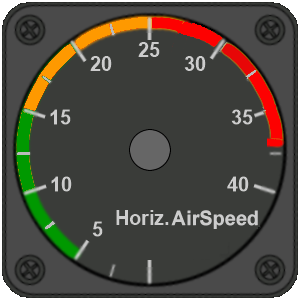
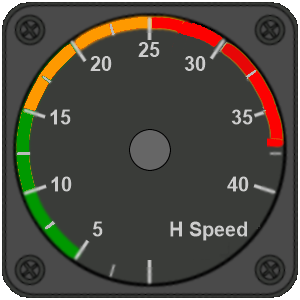
Updated graphics,splash option
Updated graphics.  Added splash option

Changed region(s): [[0.36, 0.69, 0.87, 0.81]]

diff --git a/src/main.py b/src/main.py
@@ -113,7 +113,6 @@ class MainApp(MDApp):
     appTitle = f"{appName} - {appVersion}"
     defaultMapZoom = 3
     pathWidths = [ "1.0", "1.5", "2.0", "2.5", "3.0" ]
-    refreshRates = ['0.25s', '0.50s', '1.00s', '1.50s', '2.00s']
     assetColors = [ "#ed1c24", "#0000ff", "#22b14c", "#7f7f7f", "#ffffff", "#c3c3c3", "#000000", "#ffff00", "#a349a4", "#aad2fa" ]
     columns = ('recnum', 'recid', 'flight','timestamp','tod','time','distance1','dist1lat','dist1lon','distance2','dist2lat','dist2lon','distance3','altitude1','altitude2','speed1','speed1lat','speed1lon','speed2','speed2lat','speed2lon','speed1vert','speed2vert','satellites','ctrllat','ctrllon','homelat','homelon','dronelat','dronelon','orientation','motor1status','motor2status','motor3status','motor4status','motorstatus','dronestatus','droneaction','rssi','channel','flightctrlconnected','remoteconnected','droneconnected','rth','positionmode','gps','inuse','traveled','batterylevel','flightmode','flightcounter')
     showColsBasicDreamer = ('flight','tod','time','altitude1','distance1','satellites','homelat','homelon','dronelat','dronelon')
@@ -1036,7 +1035,7 @@ class MainApp(MDApp):
 
         dronestatus2 = rthDesc if rthDesc == "RTH" else dronestatus
         if self.is_desktop:
-            self.root.ids.map_metrics2.text = f" {_('map_time')} {'{:>6}'.format(str(elapsed))[-5:]} | {_('map_dist')} {'{:>7}'.format(record[self.columns.index('distance3')])} {self.dist_unit()} | {_('map_alt')} {'{:>6}'.format(record[self.columns.index('altitude2')])} {self.dist_unit()} | {_('map_hs')} {'{:>5}'.format(record[self.columns.index('speed2')])} {self.speed_unit()} | {_('map_vs')} {'{:>5}'.format(record[self.columns.index('speed2vert')])} {self.speed_unit()} | {_('map_flightmode')} {flightMode} | {_('map_battery')} {'{:>2}'.format(record[self.columns.index('batterylevel')])}% | {dronestatus2} | {droneConnected} | {positionMode} | {_('map_sats')} {'{:>2}'.format(record[self.columns.index('satellites')])} | {_('map_distance_flown')} {self.shorten_dist_val(record[self.columns.index('traveled')])} {self.dist_unit_km()}"
+            self.root.ids.map_metrics2.text = f" {_('map_time')} {'{:>6}'.format(str(elapsed))[-5:]} | {_('map_dist')} {'{:>7}'.format(record[self.columns.index('distance3')])} {self.dist_unit()} | {_('map_alt')} {'{:>6}'.format(record[self.columns.index('altitude2')])} {self.dist_unit()} | {_('map_hs')} {'{:>5}'.format(record[self.columns.index('speed2')])} {self.speed_unit()} | {_('map_vs')} {'{:>5}'.format(record[self.columns.index('speed2vert')])} {self.speed_unit()} | {_('map_flightmode')} {flightMode} | {_('map_battery_level')} {'{:>2}'.format(record[self.columns.index('batterylevel')])}% | {dronestatus2} | {droneConnected} | {positionMode} | {_('map_sats')} {'{:>2}'.format(record[self.columns.index('satellites')])} | {_('map_distance_flown')} {self.shorten_dist_val(record[self.columns.index('traveled')])} {self.dist_unit_km()}"
         else:
             self.root.ids.map_metrics2.text = f" {_('map_time')} {'{:>6}'.format(str(elapsed))[-5:]} | {_('map_dist')} {'{:>6}'.format(record[self.columns.index('distance3')])} {self.dist_unit()} | {_('map_alt')} {'{:>5}'.format(record[self.columns.index('altitude2')])} {self.dist_unit()} | {_('map_hs')} {'{:>5}'.format(record[self.columns.index('speed2')])} {self.speed_unit()} | {_('map_vs')} {'{:>5}'.format(record[self.columns.index('speed2vert')])} {self.speed_unit()} | {flightMode} | {_('map_battery')} {'{:>2}'.format(record[self.columns.index('batterylevel')])}% | {dronestatus2} | {_('map_distance_flown')} {self.shorten_dist_val(record[self.columns.index('traveled')])} {self.dist_unit_km()}"
 
@@ -1443,7 +1442,7 @@ class MainApp(MDApp):
     '''
     def refresh_rate_selection(self, item):
         menu_items = []
-        for refreshRate in self.refreshRates:
+        for refreshRate in ['0.50s', '1.00s', '1.50s', '2.00s']:
             menu_items.append({"text": refreshRate, "on_release": lambda x=refreshRate: self.refresh_rate_selection_callback(x)})
         self.refresh_rate_selection_menu = MDDropdownMenu(caller = item, items = menu_items)
         self.refresh_rate_selection_menu.open()
@@ -1493,6 +1492,13 @@ class MainApp(MDApp):
         Config.set('preferences', 'gauges', item.active)
         Config.write()
 
+
+    '''
+    Enable or disable splash (Preferences).
+    '''
+    def splash_selection(self, item):
+        Config.set('preferences', 'splash', item.active)
+        Config.write()
 
     '''
     Enable or disable circular gauges (Preferences).
@@ -1961,6 +1967,7 @@ class MainApp(MDApp):
         self.root.ids.selected_marker_home_color.value = Config.getint('preferences', 'marker_home_color')
         self.root.ids.selected_rounding.active = Config.getboolean('preferences', 'rounded_readings')
         self.root.ids.selected_gauges.active = Config.getboolean('preferences', 'gauges')
+        self.root.ids.selected_splashscreen.active = Config.getboolean('preferences', 'splash')
         self.root.ids.selected_statusicons.active = Config.getboolean('preferences', 'statusicons')
         self.root.ids.selected_mapsource.text = Config.get('preferences', 'map_tile_server')
         self.root.ids.selected_refresh_rate.text = Config.get('preferences', 'refresh_rate')
@@ -2148,6 +2155,7 @@ class MainApp(MDApp):
             'selected_model': '--',
             'language': 'en_US',
             'gauges': True,
+            'splash': False,
             'statusicons': True
         })
         langcode = Config.get('preferences', 'language')
@@ -2198,11 +2206,12 @@ class MainApp(MDApp):
 
     def on_start(self):
         if self.is_desktop:
-            self.splash_img = Image(source="assets/splash1_alt1.png", fit_mode="scale-down")
-            self.splash_ver = Label(text=f"{self.appVersion}", pos_hint={"center_x": .5, "center_y": .25}, font_size=dp(50))
-            self.root_window.add_widget(self.splash_img)
-            self.root_window.add_widget(self.splash_ver)
-            Clock.schedule_once(self.remove_splash_image, 5)
+            if Config.getboolean('preferences', 'splash') == 0:
+             self.splash_img = Image(source="assets/splash1_alt1.png", fit_mode="scale-down")
+             self.splash_ver = Label(text=f"{self.appVersion}", pos_hint={"center_x": .5, "center_y": .25}, font_size=dp(50))
+             self.root_window.add_widget(self.splash_img)
+             self.root_window.add_widget(self.splash_ver)
+             Clock.schedule_once(self.remove_splash_image, 5)
         self.root.ids.selected_path.text = '--'
         self.reset()
         self.select_map_source()
